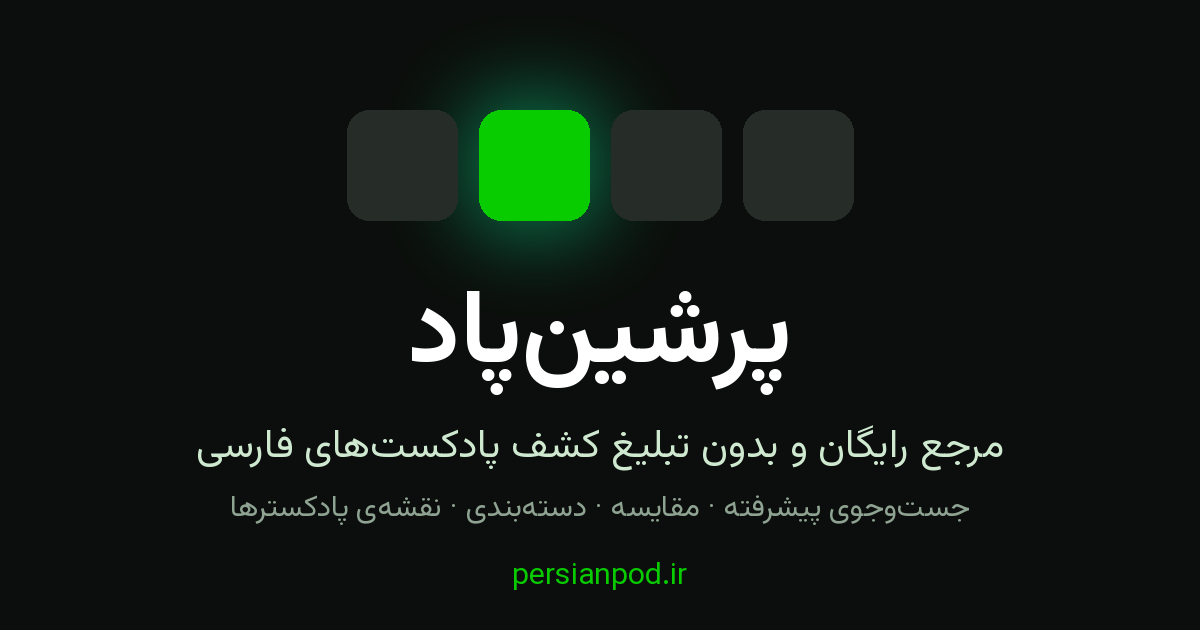
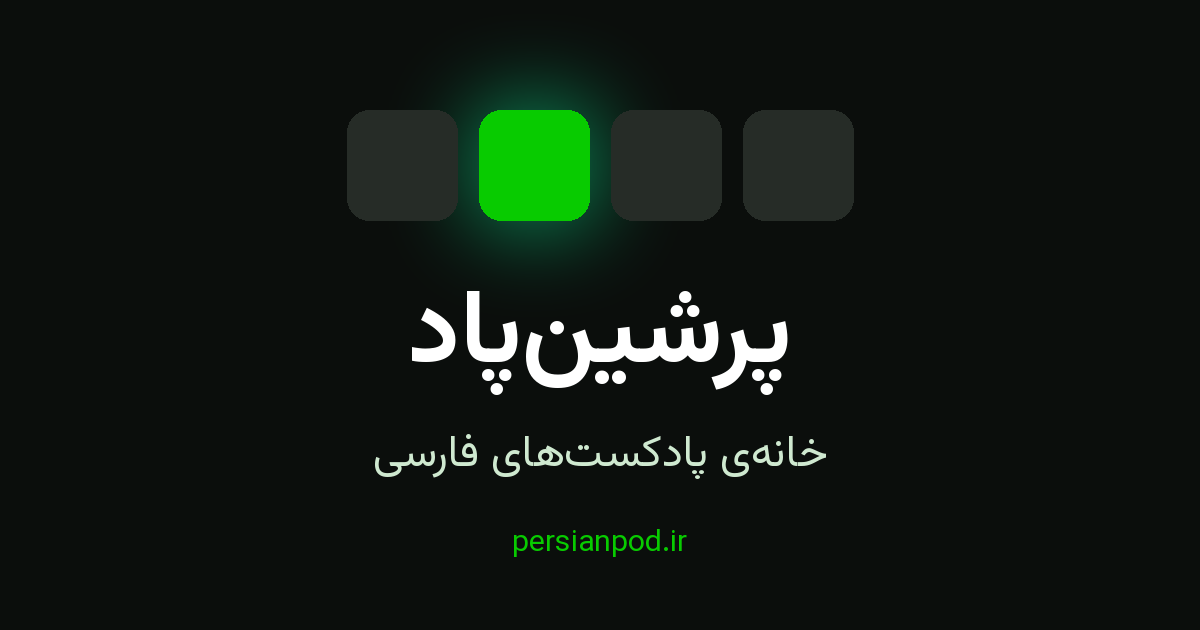
fixed59

Changed region(s): [[0.185, 0.7841, 0.8017, 0.8746], [0.1542, 0.6635, 0.8325, 0.754], [0.4317, 0.9048, 0.5858, 0.9349]]

diff --git a/_layouts/default.html b/_layouts/default.html
@@ -16,13 +16,13 @@
 <meta property="og:locale" content="fa_IR">
 {%- comment -%} تصویر پیشنمایش (تلگرام، واتساپ، توییتر...): صفحهی هر پادکست عکس خودش را میگیرد (از seo-head)، همهی صفحههای دیگر عکس خود پرشینپاد. بدون این تگها، تلگرام یکی از عکسهای داخل صفحه را حدس میزند. {%- endcomment -%}
 {%- unless page.collection == "podcasts" and page.logo %}
-<meta property="og:image" content="{{ '/assets/img/persianpod-og.png' | absolute_url }}?v=1">
+<meta property="og:image" content="{{ '/assets/img/persianpod-og.png' | absolute_url }}?v=2">
 <meta property="og:image:type" content="image/png">
 <meta property="og:image:width" content="1200">
 <meta property="og:image:height" content="630">
 <meta property="og:image:alt" content="پرشینپاد؛ مرجع پادکستهای فارسی">
 <meta name="twitter:card" content="summary_large_image">
-<meta name="twitter:image" content="{{ '/assets/img/persianpod-og.png' | absolute_url }}?v=1">
+<meta name="twitter:image" content="{{ '/assets/img/persianpod-og.png' | absolute_url }}?v=2">
 {%- endunless %}
 {% include seo-head.html %}
 <link rel="icon" href="{{ '/assets/img/favicon.ico' | relative_url }}" sizes="any">

diff --git a/index.html b/index.html
@@ -1,7 +1,7 @@
 ---
 layout: default
 filters: true
-description: پادکست فارسی را کشف کن؛ دستهبندی، جستوجوی پیشرفته، جستوجو بر اساس شهر، کشور، وضعیت، سال شروع و تعداد قسمتها، و نقشهی پادکسترها.
+description: خانهی پادکستهای فارسی
 styles: [/assets/css/pp-dir.css, /assets/css/pp-map.css]
 scripts: [/assets/js/pp-directory.js, /assets/js/pp-map.js]
 ---
